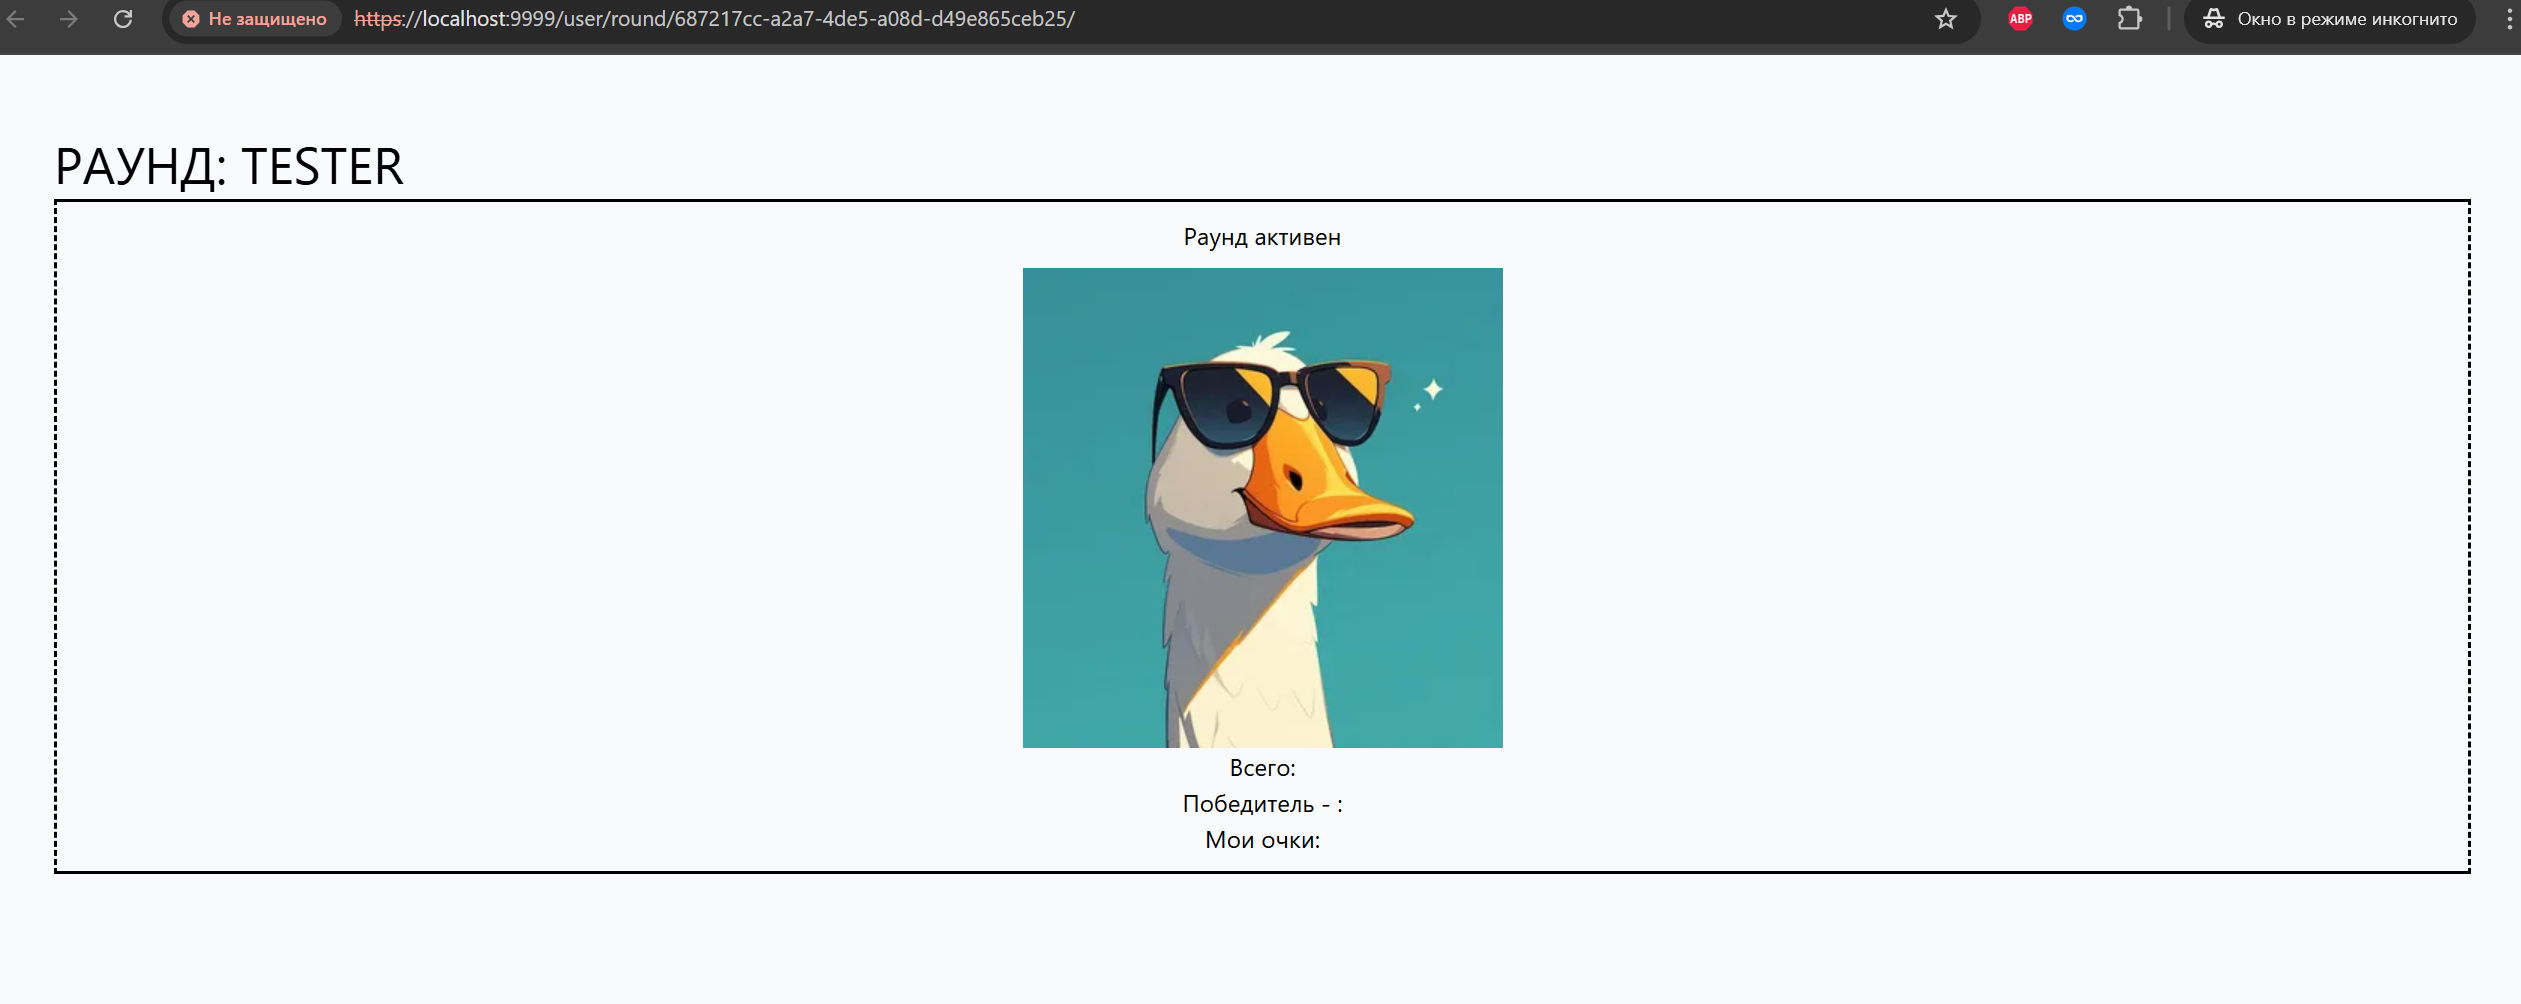
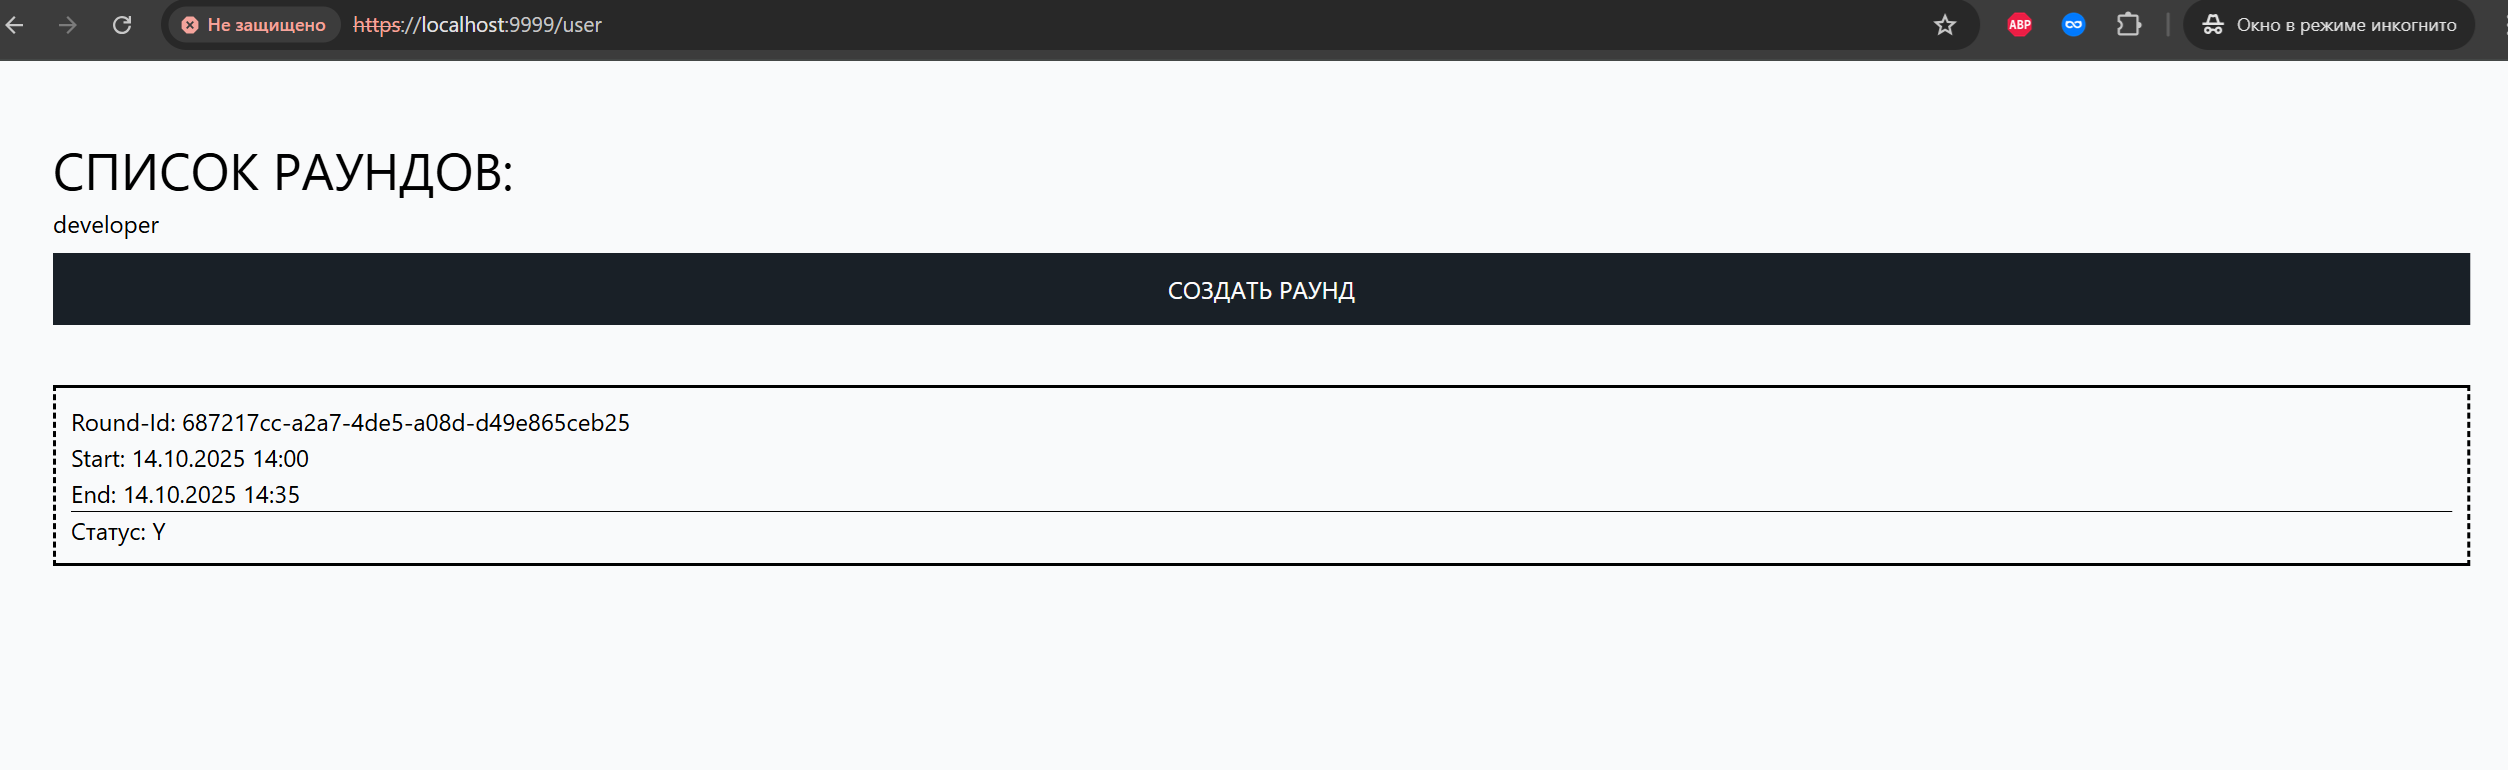
update image

Changed region(s): [[0.0, 0.1247, 0.9952, 0.8727], [0.0, 0.0, 1.0, 0.0935], [0.0311, 0.5922, 0.1244, 0.6545]]

diff --git a/README.md b/README.md
@@ -62,7 +62,7 @@
    Когда игра закончена игра блокируется тапы тоже
    ![img_3.png](img_3.png)
 5. Идем по адресу /user/rounds или /user видим форму создания раундов, роль пользователя учитывается: 
-   ![img_4.png](img_4.png)
+   ![img_5.png](img_5.png)
    для обычных пользователей показывается только список их раундов без кнопки.
 6. Так же есть страница статистики раунда по ссылке с раунда:
    ![img_10.png](img_10.png)
